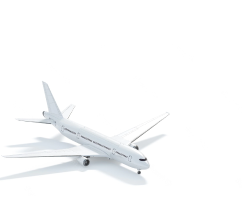
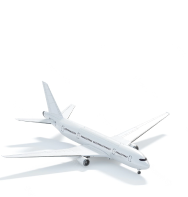
Redo hero sect1 pt1

diff --git a/app/(general)/page.js b/app/(general)/page.js
@@ -5,10 +5,104 @@ import SearchBar from "../components/SearchBar";
 export default function Home() {
   return (
     <main>
-      <section className="">
-
+      <section className="flex items-center">
+        <div className="basis-1/2  relative lg:-mt-14">
+          <div className="md:ml-12 lg:ml-20 xl:ml-36 space-y-5 relative z-10">
+            <h1 className="text-3xl xl:text-[2.6rem]  xl:leading-[3.6rem] font-bold xl:font-extrabold">
+              Find Your <span className="text-tert">Travel Buddy</span> And Make
+              Lifelong <span className="text-tert">Memories</span> 🏝
+            </h1>
+            <h2 className="text-sm lg:text-lg">
+              Discover and connect with fellow travelers and create timeless
+              journeys together
+            </h2>
+            <div className="flex items-center gap-x-8 md:gap-x-8 justify-center md:justify-start">
+              <BtnMain url={"/"}>
+                Get Started
+                <svg
+                  className="rotate-180 stroke-white inline ml-2"
+                  width="15"
+                  height="18"
+                  viewBox="0 0 24 24"
+                  fill="none"
+                  xmlns="http://www.w3.org/2000/svg"
+                >
+                  <path
+                    d="M9.57 5.92969L3.5 11.9997L9.57 18.0697"
+                    stroke=""
+                    strokeWidth="1.5"
+                    strokeMiterlimit="10"
+                    strokeLinecap="round"
+                    strokeLinejoin="round"
+                  />
+                  <path
+                    d="M20.4999 12H3.66992"
+                    stroke=""
+                    strokeWidth="1.5"
+                    strokeMiterlimit="10"
+                    strokeLinecap="round"
+                    strokeLinejoin="round"
+                  />
+                </svg>
+              </BtnMain>
+              <div className="flex items-center space-x-3">
+                <div className="shadow-xl rounded-full w-10 h-10 p-2 flex justify-center items-center border-[1px] border-[#FBB040]">
+                  <svg
+                    className="ml-1"
+                    width="14"
+                    height="14"
+                    viewBox="0 0 14 14"
+                    fill="none"
+                    xmlns="http://www.w3.org/2000/svg"
+                  >
+                    <path
+                      d="M13.1729 7.14401L0.841121 14.2637L0.841122 0.0242767L13.1729 7.14401Z"
+                      fill="#FBB040"
+                    />
+                  </svg>
+                </div>
+                <span>Play Demo</span>
+              </div>
+            </div>
+          </div>
+          <div className="md:w-24 lg:w-36 xl:w-48 absolute md:-bottom-12 lg:-bottom-20 z-0">
+            <Image
+              className="w-full h-full"
+              src={"/assets/plane.png"}
+              width="150"
+              height="100"
+            />
+          </div>
+        </div>
+        <div className="flex basis-1/2 items-center">
+          <div className="basis-1/2">
+            <Image
+              className="h-full w-full"
+              src={"/assets/heroA.png"}
+              width="500"
+              height="500"
+            />
+          </div>
+          <div className="basis-1/2">
+            <div className="">
+              <Image
+                className="w-2/5 h-full mx-auto"
+                src={"/assets/kite.png"}
+                width="100"
+                height="50"
+              />
+            </div>
+            <div className="">
+              <Image
+                className="w-full h-full"
+                src={"/assets/heroBi.png"}
+                width="500"
+                height="500"
+              />
+            </div>
+          </div>
+        </div>
       </section>
-
       {/* <section className="text-sm mx-4 md:px-5 lg:px-20 xl:px-36 lg:flex items-center">
         <div className="basis-1/2 w-full">
           <div className="mb-10">
@@ -46,67 +140,7 @@ export default function Home() {
 
         </div>
       </section> */}
-
+      <section></section>
     </main>
   );
 }
-
-
-{/* <div className="md:basis-1/2 w-full md:l-5 lg:pl-20 xl:pl-36 row-start-[1] row-end-[10] col-start-[1] col-end-[5] flex flex-col gap-6">
-<h1 className="text-3xl xl:text-[2.6rem]  xl:leading-[3.6rem] font-bold xl:font-extrabold">
-  Find Your <span className="text-tert">Travel Buddy</span> And Make
-  Lifelong <span className="text-tert">Memories</span> 🏝
-</h1>
-<h2 className="text-sm md:text-lg">
-  Discover and connect with fellow travelers and create timeless
-  journeys together
-</h2>
-<div className="flex items-center gap-x-8 md:gap-x-8 justify-center md:justify-start">
-  <BtnMain url={"/"}>
-    Get Started
-    <svg
-      className="rotate-180 stroke-white inline ml-2"
-      width="15"
-      height="18"
-      viewBox="0 0 24 24"
-      fill="none"
-      xmlns="http://www.w3.org/2000/svg"
-    >
-      <path
-        d="M9.57 5.92969L3.5 11.9997L9.57 18.0697"
-        stroke=""
-        strokeWidth="1.5"
-        strokeMiterlimit="10"
-        strokeLinecap="round"
-        strokeLinejoin="round"
-      />
-      <path
-        d="M20.4999 12H3.66992"
-        stroke=""
-        strokeWidth="1.5"
-        strokeMiterlimit="10"
-        strokeLinecap="round"
-        strokeLinejoin="round"
-      />
-    </svg>
-  </BtnMain>
-  <div className="flex items-center space-x-3">
-    <div className="shadow-xl rounded-full w-10 h-10 p-2 flex justify-center items-center border-[1px] border-[#FBB040]">
-      <svg
-        className="ml-1"
-        width="14"
-        height="14"
-        viewBox="0 0 14 14"
-        fill="none"
-        xmlns="http://www.w3.org/2000/svg"
-      >
-        <path
-          d="M13.1729 7.14401L0.841121 14.2637L0.841122 0.0242767L13.1729 7.14401Z"
-          fill="#FBB040"
-        />
-      </svg>
-    </div>
-    <span>Play Demo</span>
-  </div>
-</div>
-</div> */}

diff --git a/app/components/formerHero.jsx b/app/components/formerHero.jsx
@@ -1,0 +1,127 @@
+import React from "react";
+
+export default function formerHero() {
+  return (
+    <>
+      <section className="">
+        <div className="flex md:hidden justify-center w-full">
+          <SearchBar />
+        </div>
+        <div className="hidden lg:block row-start-[8] xl:row-start-[7] row-end-[11] col-start-[1] col-end-[3] ">
+          <Image
+            className="w-full"
+            src={"/assets/plane.png"}
+            width="150"
+            height="100"
+          />
+        </div>
+        <div className="md:basis-1/2 w-full md:l-5 lg:pl-20 xl:pl-36 row-start-[1] row-end-[10] col-start-[1] col-end-[5] flex flex-col gap-6">
+          <h1 className="text-3xl xl:text-[2.6rem]  xl:leading-[3.6rem] font-bold xl:font-extrabold">
+            Find Your <span className="text-tert">Travel Buddy</span> And Make
+            Lifelong <span className="text-tert">Memories</span> 🏝
+          </h1>
+          <h2 className="text-sm md:text-lg">
+            Discover and connect with fellow travelers and create timeless
+            journeys together
+          </h2>
+          <div className="flex items-center gap-x-8 md:gap-x-8 justify-center md:justify-start">
+            <BtnMain url={"/"}>
+              Get Started
+              <svg
+                className="rotate-180 stroke-white inline ml-2"
+                width="15"
+                height="18"
+                viewBox="0 0 24 24"
+                fill="none"
+                xmlns="http://www.w3.org/2000/svg"
+              >
+                <path
+                  d="M9.57 5.92969L3.5 11.9997L9.57 18.0697"
+                  stroke=""
+                  strokeWidth="1.5"
+                  strokeMiterlimit="10"
+                  strokeLinecap="round"
+                  strokeLinejoin="round"
+                />
+                <path
+                  d="M20.4999 12H3.66992"
+                  stroke=""
+                  strokeWidth="1.5"
+                  strokeMiterlimit="10"
+                  strokeLinecap="round"
+                  strokeLinejoin="round"
+                />
+              </svg>
+            </BtnMain>
+            <div className="flex items-center space-x-3">
+              <div className="shadow-xl rounded-full w-10 h-10 p-2 flex justify-center items-center border-[1px] border-[#FBB040]">
+                <svg
+                  className="ml-1"
+                  width="14"
+                  height="14"
+                  viewBox="0 0 14 14"
+                  fill="none"
+                  xmlns="http://www.w3.org/2000/svg"
+                >
+                  <path
+                    d="M13.1729 7.14401L0.841121 14.2637L0.841122 0.0242767L13.1729 7.14401Z"
+                    fill="#FBB040"
+                  />
+                </svg>
+              </div>
+              <span>Play Demo</span>
+            </div>
+          </div>
+        </div>
+        <div className="hidden lg:block row-start-[2] row-end-[10] col-start-[5] col-end-[8]">
+          <div>
+            <Image
+              className="h-full w-full"
+              src={"/assets/heroA.png"}
+              width="500"
+              height="500"
+            />
+          </div>
+        </div>
+
+        <div className="hidden lg:block row-start-[1] row-end-[3] col-start-[8] col-end-[11]  mx-auto">
+          <Image
+            className=""
+            src={"/assets/kite.png"}
+            width="135"
+            height="100"
+          />
+        </div>
+        <div className="md:basis-1/2 w-full row-start-[3] row-end-[11] col-start-[8] col-end-[11] ">
+          <div className="inline-block md:hidden mx-auto ">
+            <Image
+              className=""
+              src={"/assets/kite.png"}
+              width="100"
+              height="100"
+            />
+          </div>
+          <div className="rounded-3xl overflow-clip -mt-10 md:mt-0 h-full">
+            <Image
+              className="hidden lg:block w-full h-full lg:-mt-8 xl:-mt-5"
+              src={"/assets/heroBi.png"}
+              width="1000"
+              height="2000"
+            />
+          </div>
+          <div className="lg:hidden rounded-3xl overflow-clip -mt-10 md:mt-0 h-full">
+            <Image
+              className="w-full h-full"
+              src={"/assets/heroMob.png"}
+              width="1000"
+              height="2000"
+            />
+          </div>
+        </div>
+      </section>
+      <div className="hidden md:flex justify-center mb-20">
+        <SearchBar />
+      </div>
+    </>
+  );
+}

diff --git a/app/components/NavLinks.jsx b/app/components/NavLinks.jsx
@@ -3,7 +3,7 @@ import BtnSec from "./BtnSec";
 export default function NavLinks() {
   return (
     <>
-      <ul className="flex flex-col pl-4 md:pl-0 space-y-2 md:space-y-0 md:flex-row md:space-x-3 lg:space-x-6">
+      <ul className="text-base md:text-sm  lg:text-base flex flex-col pl-4 md:pl-0 space-y-2 md:space-y-0 md:flex-row md:space-x-3 lg:space-x-6">
         <li>
           <Link href="/" className="md:font-normal">
             Find Buddies

diff --git a/app/components/NavbarLg.jsx b/app/components/NavbarLg.jsx
@@ -2,7 +2,7 @@ import NavLinks from "./NavLinks";
 import Logo from "./Logo";
 export default function NavbarLg() {
   return (
-    <nav className="hidden md:flex items-center justify-between md:px-5 lg:px-20 xl:px-36 py-12 bg-white h-16">
+    <nav className="hidden md:flex items-center justify-between md:px-12 lg:px-20 xl:px-36 py-12 bg-white h-16">
       <Logo />
       <NavLinks />
     </nav>
